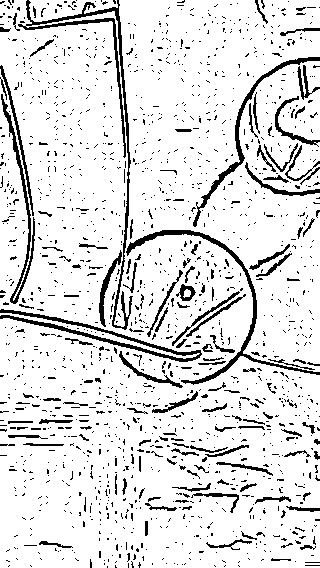
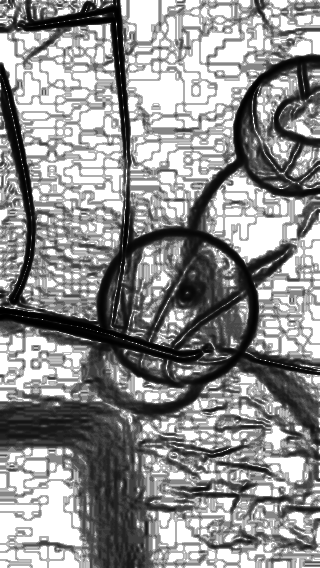
little better visualization

diff --git a/gradient.py b/gradient.py
@@ -31,11 +31,10 @@ inverted_edges = cv2.bitwise_not(gradient_magnitude)
 equalized = cv2.equalizeHist(inverted_edges)
 
 # Saving and output
-cv2.imwrite(f"./{IMAGE_NAME}_gradient.png", th3)
+cv2.imwrite(f"./{IMAGE_NAME}_gradient.png", equalized)
 
 plt.figure(figsize=(20, 5))
-plt.subplot(131), plt.imshow(gray, cmap='gray'), plt.title('Original Gray')
-plt.subplot(133), plt.imshow(inverted_edges, cmap='gray'), plt.title('Gradient Magnitude Inverted (Sobel)')
-plt.subplot(132), plt.imshow(equalized, cmap='gray'), plt.title('thresholding')
-plt.axis('off')  # Скрыть оси для лучшей визуализации
+plt.subplot(131), plt.imshow(gray, cmap='gray'), plt.title('Original Gray'), plt.axis('off')
+plt.subplot(133), plt.imshow(inverted_edges, cmap='gray'), plt.title('Gradient Magnitude Inverted'), plt.axis('off')
+plt.subplot(132), plt.imshow(equalized, cmap='gray'), plt.title('Equalized Gradient'), plt.axis('off')
 plt.show()
